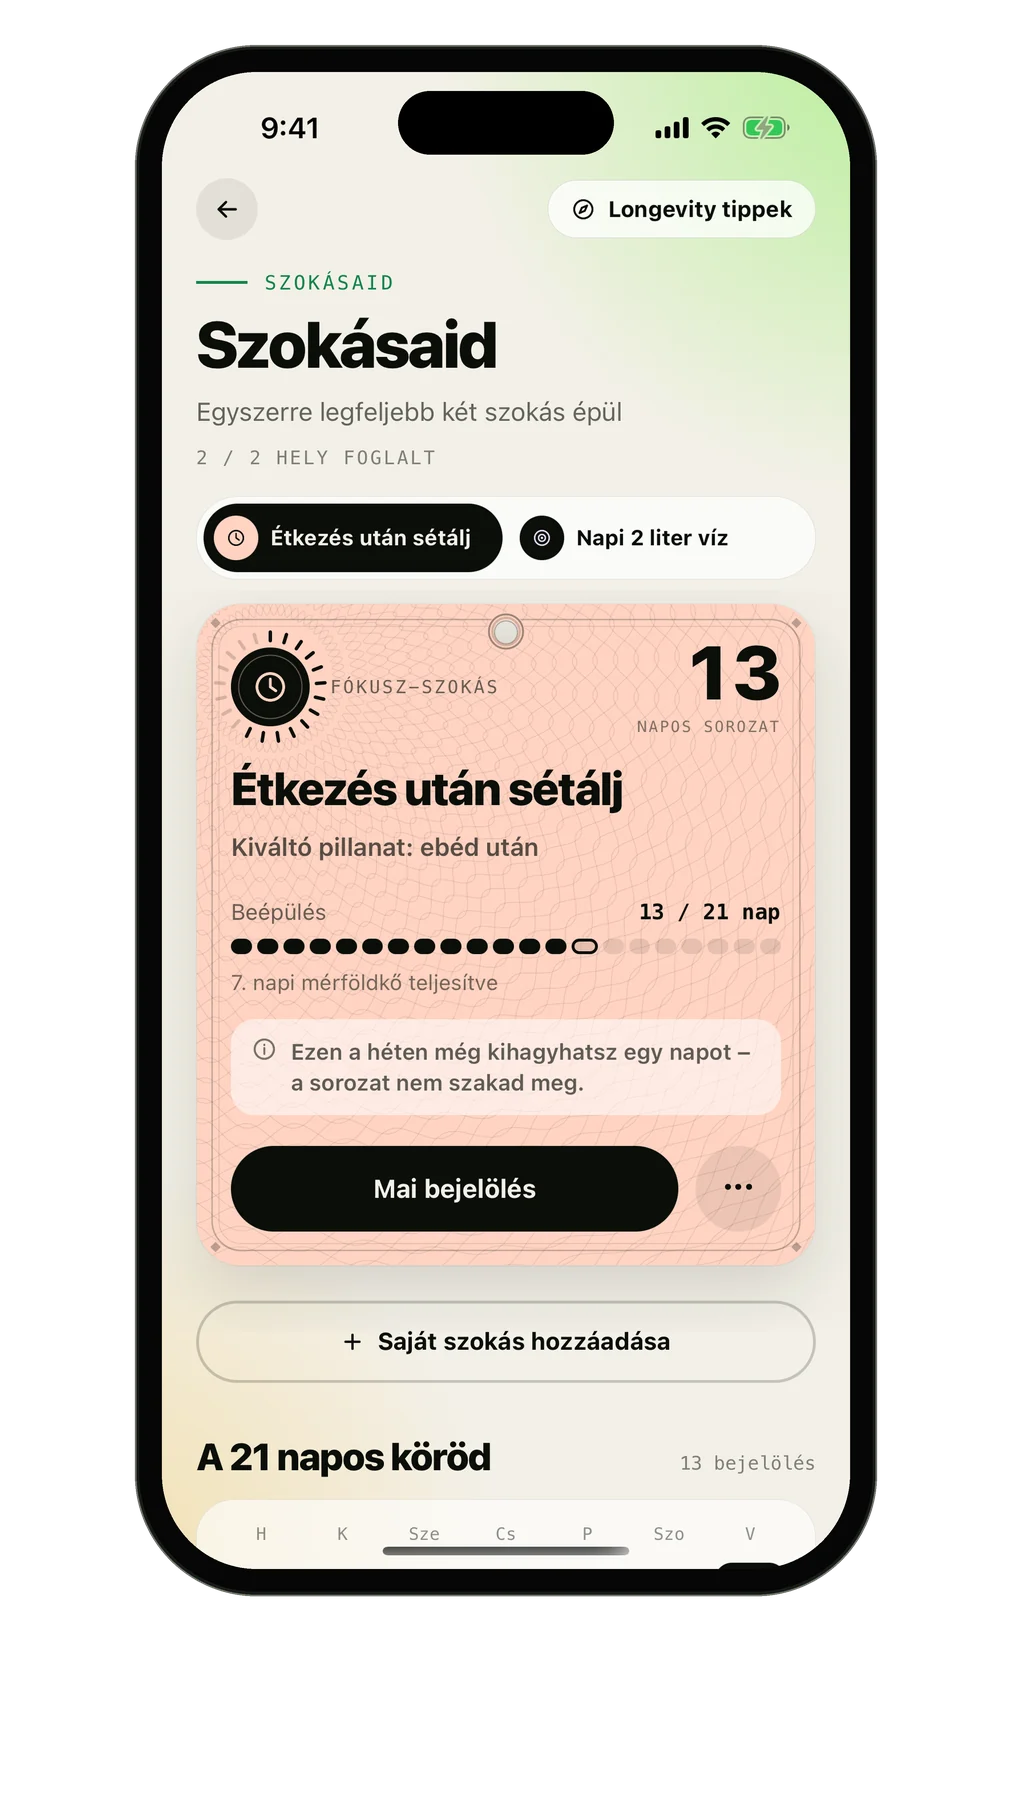
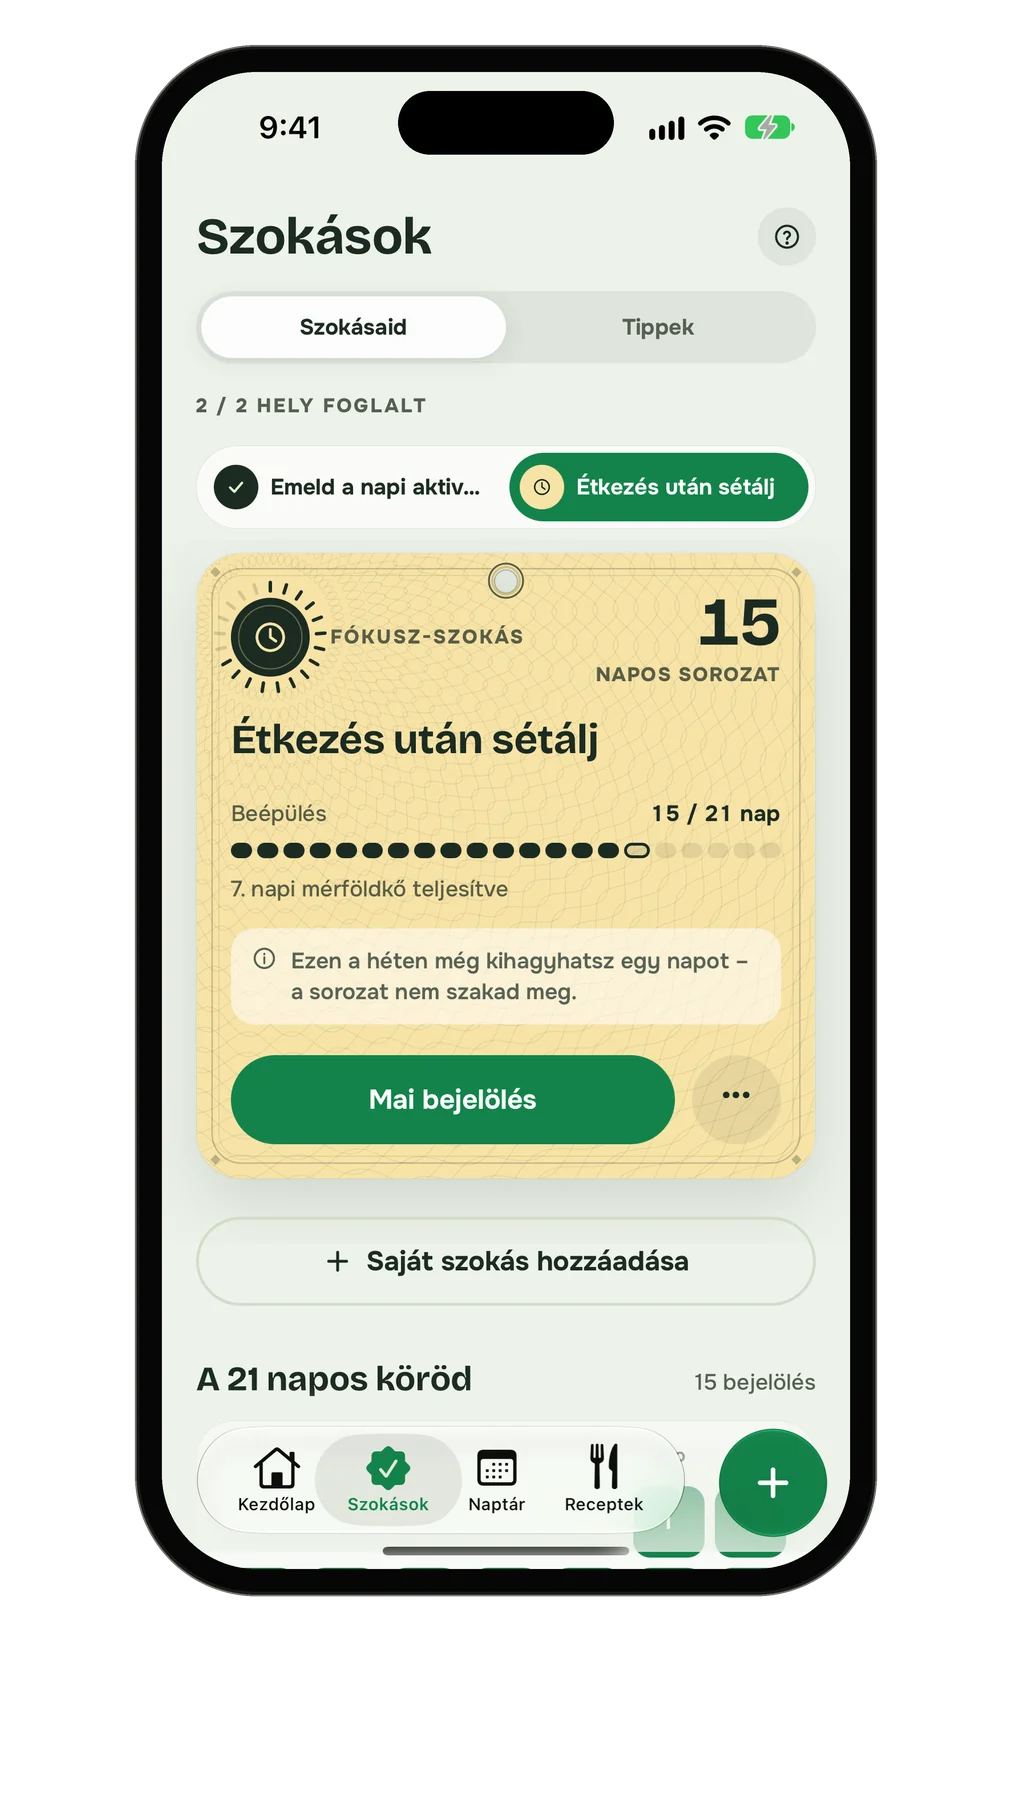
Weboldal a 2.2.0-hoz: friss app-képek (Közösség fül nélkül), új OG-kép (négy lépés), szokás-időpont szöveg, csoport-link semleges, support: Apple Watch-szorzó pontosítva

diff --git a/index.html b/index.html
@@ -12,7 +12,7 @@
 <meta property="og:title" content="FreshPlate — Heti menü négy lépésben">
 <meta property="og:description" content="Nem diéta. Heti menü és bevásárlólista a célodhoz igazítva: fogyás, izomépítés vagy formában maradni. 1300 egészséges recept.">
 <meta property="og:url" content="https://freshplate.hu/">
-<meta property="og:image" content="https://freshplate.hu/assets/og.png">
+<meta property="og:image" content="https://freshplate.hu/assets/og.png?v=2">
 <meta property="og:locale" content="hu_HU">
 <meta name="twitter:card" content="summary_large_image">
 <meta name="apple-itunes-app" content="app-id=6793034579">
@@ -855,7 +855,7 @@ footer a{text-decoration:none}footer a:hover{color:var(--lime)}
       <div class="arts">
         <article class="art"><p class="mono lime" style="margin:0 0 12px">Lépés 01</p><h3>Heti terv négy lépésben<span class="pro">PRO</span></h3><p>Napok → étkezések → edzés → szűrők. A varázsló a saját ízlésedből, allergiáidból és kalóriacélodból rak össze egy hetet — reggelitől vacsoráig, tízóraival és uzsonnával, edzésnapokon az edzéshez igazítva.</p><a class="try" href="#terv">Próbáld ki lent →</a></article>
         <article class="art"><p class="mono lime" style="margin:0 0 12px">Lépés 02</p><h3>Bevásárlólista, ami magától összeáll<span class="pro">PRO</span></h3><p>A hét minden hozzávalója egy listán, polcok szerint rendezve. A boltban csak pipálsz — fejben nem kell tartanod semmit.</p></article>
-        <article class="art"><p class="mono lime" style="margin:0 0 12px">Lépés 03</p><h3>21 nap — egy szokás</h3><p>Egyszerre egy szokás épül, egy kiváltó pillanathoz kötve. Hetente egy kihagyott nap belefér: a sorozat nem nullázódik, csak folytatod. Huszonegy nap után a szokás beépült.</p></article>
+        <article class="art"><p class="mono lime" style="margin:0 0 12px">Lépés 03</p><h3>21 nap — egy szokás</h3><p>Egy szokás ingyen, a Próval kettő egyszerre — mindegyiknél megadod, mikor csinálod, például ebéd után. Hetente egy kihagyott nap belefér: a sorozat nem nullázódik, csak folytatod. Huszonegy nap után a szokás beépült.</p></article>
       </div>
       <div class="s-dots" aria-hidden="true"><i><b></b></i><i><b></b></i><i><b></b></i></div>
     </div>
@@ -879,7 +879,7 @@ footer a{text-decoration:none}footer a:hover{color:var(--lime)}
       </div>
       <div class="dg">
         <span class="chip" style="left:6%;top:22%">Étkezés után sétálj</span>
-        <span class="chip" style="left:28%;top:38%;animation-delay:-1.6s">Kiváltó pillanat <small>ebéd után</small></span>
+        <span class="chip" style="left:28%;top:38%;animation-delay:-1.6s">Mikor? <small>ebéd után</small></span>
         <span class="chip l" style="left:2%;top:56%;animation-delay:-2.6s">1 szabadnap <small>/ hét</small></span>
         <span class="chip g" style="left:26%;top:71%;animation-delay:-3.4s">7. nap · mérföldkő</span>
       </div>
@@ -1016,12 +1016,12 @@ footer a{text-decoration:none}footer a:hover{color:var(--lime)}
     <div>
       <p class="kicker mono">04 / Szokás és tippek</p>
       <h2 data-split>Egy szokás. <span class="soft">Huszonegy nap.</span></h2>
-      <p class="lead" data-reveal>Nem tíz fogadalom januárban. Egyetlen fókusz, egy kiváltó pillanathoz kötve — és huszonegy nap, amíg beépül. Hetente egy kihagyott nap belefér: a sorozat nem nullázódik, csak folytatod. Egy szokás ingyenes, a Próval kettőt építhetsz egyszerre.</p>
+      <p class="lead" data-reveal>Nem tíz fogadalom januárban. Egyetlen fókusz, a nap egy pontjához kötve — és huszonegy nap, amíg beépül. Hetente egy kihagyott nap belefér: a sorozat nem nullázódik, csak folytatod. Egy szokás ingyenes, a Próval kettőt építhetsz egyszerre.</p>
       <div class="big21" id="big21" aria-hidden="true">21<small>nap</small></div>
     </div>
     <div class="habit" data-reveal>
       <div class="h-top">
-        <div><span class="mono lime">Fókusz-szokás</span><h3>Étkezés után sétálj</h3><p>Kiváltó pillanat: ebéd után</p></div>
+        <div><span class="mono lime">Fókusz-szokás</span><h3>Étkezés után sétálj</h3><p>Mikor: ebéd után</p></div>
         <div class="streak"><b id="streakN">11</b><span class="mono">napos<br>sorozat</span></div>
       </div>
       <div class="hbar"><i id="hbar"></i></div>

diff --git a/support.html b/support.html
@@ -27,7 +27,7 @@
 
 <!-- ================= MAGYAR ================= -->
 <h1>FreshPlate — Támogatás</h1>
-<div class="updated">Utolsó frissítés: 2026. július 28.</div>
+<div class="updated">Utolsó frissítés: 2026. november 28.</div>
 
 <p>Kérdésed van a FreshPlate alkalmazással kapcsolatban, vagy elakadtál valahol?
 Szívesen segítünk.</p>
@@ -61,12 +61,12 @@ A bejelentkezési képernyőn használd az elfelejtett jelszó lehetőséget,
 vagy írj nekünk a fenti e-mail címre.</p>
 
 <p><strong>Miért csökkent a kalóriacélom, amikor összekötöttem az Apple Watch-ot?</strong><br>
-Ez szándékos. Az összekötés előtt a napi célt egy becsült aktivitási szorzó (ülő /
-mérsékelten aktív / aktív) növelte, ami feltételezett mozgást tartalmazott. Amikor a
-Watch már valós adatot ad, ezt a szorzót „ülő"-re állítjuk, különben a mozgás kétszer
-számolna, és a napi célod indokolatlanul magas lenne. A ledolgozott kalória ezután
-naponta hozzáadódik a célhoz – vagyis a kiinduló szám kisebb, a napi végösszeg viszont
-pontosabb.</p>
+Ez szándékos. Az összekötés előtt a napi célt a megadott mozgásszintedből (az ülő
+életmódtól az élsportolóig) becsült aktivitási szorzó növelte, ami feltételezett mozgást
+tartalmazott. Amikor a Watch már valós adatot ad, ezt a becslést elhagyjuk, és csak az étel
+feldolgozásának energiaigényével (kb. 10%) számolunk, különben a mozgás kétszer számolna,
+és a napi célod indokolatlanul magas lenne. A ledolgozott kalória ezután naponta hozzáadódik
+a célhoz – vagyis a kiinduló szám kisebb, a napi végösszeg viszont pontosabb.</p>
 
 
 <p><strong>Hibát találtam / javaslatom van.</strong><br>
@@ -83,7 +83,7 @@ együtt — így gyorsabban tudunk segíteni.</p>
 
 <!-- ================= ENGLISH ================= -->
 <h1>FreshPlate — Support</h1>
-<div class="updated">Last updated: 28 July 2026</div>
+<div class="updated">Last updated: 28 November 2026</div>
 
 <p>Have a question about the FreshPlate app, or run into a problem?
 We're happy to help.</p>
@@ -116,12 +116,13 @@ Use the forgot-password option on the sign-in screen, or email us at the
 address above.</p>
 
 <p><strong>Why did my calorie goal go down when I connected my Apple Watch?</strong><br>
-This is intentional. Before connecting, your daily goal was raised by an estimated
-activity multiplier (sedentary / moderately active / active), which already assumed
-some exercise. Once the Watch provides real data, we set that multiplier to
-“sedentary” — otherwise your movement would be counted twice and your goal would be
-too high. The energy you actually burn is then added to your goal each day, so the
-starting number is lower but the daily total is more accurate.</p>
+This is intentional. Before connecting, your daily goal was raised by an activity
+multiplier estimated from the activity level you chose (from sedentary to elite athlete),
+which already assumed some exercise. Once the Watch provides real data, we drop that estimate
+and only account for the energy used to digest food (about 10%) — otherwise your movement
+would be counted twice and your goal would be too high. The energy you actually burn is then
+added to your goal each day, so the starting number is lower but the daily total is more
+accurate.</p>
 
 
 <p><strong>I found a bug / I have a suggestion.</strong><br>

diff --git a/go/csoport/index.html b/go/csoport/index.html
@@ -3,13 +3,13 @@
 <head>
 <meta charset="UTF-8">
 <meta name="viewport" content="width=device-width, initial-scale=1.0">
-<title>Csatlakozz a csoportomhoz a FreshPlate-ben</title>
+<title>FreshPlate — Heti menü négy lépésben</title>
 <meta name="robots" content="noindex">
 <meta property="og:type" content="website">
 <meta property="og:site_name" content="FreshPlate">
-<meta property="og:title" content="Csatlakozz a csoportomhoz a FreshPlate-ben">
-<meta property="og:description" content="Heti menü, bevásárlólista és 21 napos közös szokásépítés. Ingyenesen letölthető iPhone-ra.">
-<meta property="og:image" content="https://freshplate.hu/assets/og.png">
+<meta property="og:title" content="FreshPlate — Heti menü négy lépésben">
+<meta property="og:description" content="Nem diéta. Heti menü, bevásárlólista és 21 napos szokásépítés, a célodhoz igazítva. Ingyenesen letölthető iPhone-ra.">
+<meta property="og:image" content="https://freshplate.hu/assets/og.png?v=2">
 <meta property="og:url" content="https://freshplate.hu/go/csoport/">
 <meta name="twitter:card" content="summary_large_image">
 <!-- Tartalék, ha nem fut a JS: 2 mp múlva az App Store. -->

diff --git a/go/app/index.html b/go/app/index.html
@@ -9,7 +9,7 @@
 <meta property="og:site_name" content="FreshPlate">
 <meta property="og:title" content="FreshPlate — Heti menü négy lépésben">
 <meta property="og:description" content="Nem diéta. Heti menü és bevásárlólista a célodhoz igazítva: fogyás, izomépítés vagy formában maradni.">
-<meta property="og:image" content="https://freshplate.hu/assets/og.png">
+<meta property="og:image" content="https://freshplate.hu/assets/og.png?v=2">
 <meta property="og:url" content="https://freshplate.hu/go/app/">
 <meta name="twitter:card" content="summary_large_image">
 <!-- Tartalék, ha nem fut a JS: 2 mp múlva az App Store. -->

diff --git a/go/qr/index.html b/go/qr/index.html
@@ -9,7 +9,7 @@
 <meta property="og:site_name" content="FreshPlate">
 <meta property="og:title" content="FreshPlate — Heti menü négy lépésben">
 <meta property="og:description" content="Nem diéta. Heti menü és bevásárlólista a célodhoz igazítva: fogyás, izomépítés vagy formában maradni.">
-<meta property="og:image" content="https://freshplate.hu/assets/og.png">
+<meta property="og:image" content="https://freshplate.hu/assets/og.png?v=2">
 <meta property="og:url" content="https://freshplate.hu/go/qr/">
 <meta name="twitter:card" content="summary_large_image">
 <!-- Tartalék, ha nem fut a JS: 2 mp múlva az App Store. -->

diff --git a/go/cel/index.html b/go/cel/index.html
@@ -9,7 +9,7 @@
 <meta property="og:site_name" content="FreshPlate">
 <meta property="og:title" content="Elértem a mai célom a FreshPlate-ben">
 <meta property="og:description" content="Heti menü négy lépésben, bevásárlólistával. 1300 egészséges recept, ingyenesen letölthető.">
-<meta property="og:image" content="https://freshplate.hu/assets/og.png">
+<meta property="og:image" content="https://freshplate.hu/assets/og.png?v=2">
 <meta property="og:url" content="https://freshplate.hu/go/cel/">
 <meta name="twitter:card" content="summary_large_image">
 <!-- Tartalék, ha nem fut a JS: 2 mp múlva az App Store. -->

diff --git a/go/szokas/index.html b/go/szokas/index.html
@@ -9,7 +9,7 @@
 <meta property="og:site_name" content="FreshPlate">
 <meta property="og:title" content="21 napig tartottam — a FreshPlate-ben">
 <meta property="og:description" content="Egyszerre egy szokás épül. Nem diéta: heti menü, bevásárlólista, a célodhoz igazítva.">
-<meta property="og:image" content="https://freshplate.hu/assets/og.png">
+<meta property="og:image" content="https://freshplate.hu/assets/og.png?v=2">
 <meta property="og:url" content="https://freshplate.hu/go/szokas/">
 <meta name="twitter:card" content="summary_large_image">
 <!-- Tartalék, ha nem fut a JS: 2 mp múlva az App Store. -->

diff --git a/go/barat/index.html b/go/barat/index.html
@@ -9,7 +9,7 @@
 <meta property="og:site_name" content="FreshPlate">
 <meta property="og:title" content="Tervezzük együtt a heti menüt">
 <meta property="og:description" content="FreshPlate: heti menü négy lépésben, bevásárlólistával, a célodhoz igazítva.">
-<meta property="og:image" content="https://freshplate.hu/assets/og.png">
+<meta property="og:image" content="https://freshplate.hu/assets/og.png?v=2">
 <meta property="og:url" content="https://freshplate.hu/go/barat/">
 <meta name="twitter:card" content="summary_large_image">
 <!-- Tartalék, ha nem fut a JS: 2 mp múlva az App Store. -->

diff --git a/go/lista/index.html b/go/lista/index.html
@@ -9,7 +9,7 @@
 <meta property="og:site_name" content="FreshPlate">
 <meta property="og:title" content="Bevásárlólista a FreshPlate-ből">
 <meta property="og:description" content="A heti menü hozzávalói polcok szerint. Ingyenesen letölthető iPhone-ra.">
-<meta property="og:image" content="https://freshplate.hu/assets/og.png">
+<meta property="og:image" content="https://freshplate.hu/assets/og.png?v=2">
 <meta property="og:url" content="https://freshplate.hu/go/lista/">
 <meta name="twitter:card" content="summary_large_image">
 <!-- Tartalék, ha nem fut a JS: 2 mp múlva az App Store. -->

diff --git a/go/hetem/index.html b/go/hetem/index.html
@@ -9,7 +9,7 @@
 <meta property="og:site_name" content="FreshPlate">
 <meta property="og:title" content="A hetem a FreshPlate-ben">
 <meta property="og:description" content="Heti kiértékelés, heti menü, bevásárlólista. Nem diéta — rendszer.">
-<meta property="og:image" content="https://freshplate.hu/assets/og.png">
+<meta property="og:image" content="https://freshplate.hu/assets/og.png?v=2">
 <meta property="og:url" content="https://freshplate.hu/go/hetem/">
 <meta name="twitter:card" content="summary_large_image">
 <!-- Tartalék, ha nem fut a JS: 2 mp múlva az App Store. -->
